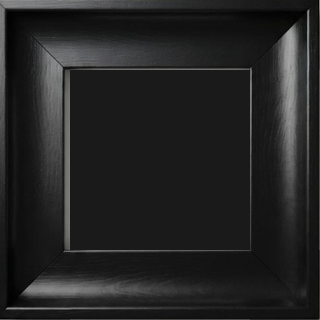
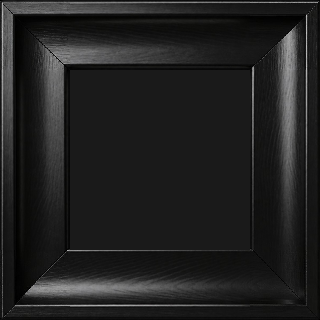
47 L Siyah’ı saten kare görselle değiştir.
Siyah fondaki oluk gölgesi delik açmasın diye gövde opak kopyalanır.

diff --git a/scripts/add-frame.py b/scripts/add-frame.py
@@ -1712,6 +1712,109 @@ def extract_matte_white_on_black(img: Image.Image) -> Image.Image:
     return out
 
 
+def extract_black_satin_square(img: Image.Image) -> Image.Image:
+    """Siyah fon + siyah saten kare: oluk gölgesi delik olmasın, gövde opak kalsın."""
+    src = img.convert("RGBA")
+    w, h = src.size
+    px = src.load()
+    cx, cy = w // 2, h // 2
+
+    def brightness(x: int, y: int) -> float:
+        r, g, b, _a = px[x, y]
+        return (r + g + b) / 3
+
+    def walk_to(x: int, y: int, dx: int, dy: int, thresh: float, run_need: int = 2):
+        run = 0
+        first: tuple[int, int] | None = None
+        while 0 <= x < w and 0 <= y < h:
+            if brightness(x, y) >= thresh:
+                if first is None:
+                    first = (x, y)
+                run += 1
+                if run >= run_need:
+                    return first
+            else:
+                run = 0
+                first = None
+            x += dx
+            y += dy
+        return first
+
+    def expand(x: int, y: int, dx: int, dy: int, thresh: float, limit: int = 12) -> tuple[int, int]:
+        last = (x, y)
+        for _ in range(limit):
+            nx, ny = x + dx, y + dy
+            if not (0 <= nx < w and 0 <= ny < h):
+                break
+            if brightness(nx, ny) >= thresh:
+                last = (nx, ny)
+                x, y = nx, ny
+            else:
+                break
+        return last
+
+    body = 8.0
+    left_o = walk_to(0, cy, 1, 0, body)
+    right_o = walk_to(w - 1, cy, -1, 0, body)
+    top_o = walk_to(cx, 0, 0, 1, body)
+    bot_o = walk_to(cx, h - 1, 0, -1, body)
+    left_i = walk_to(cx, cy, -1, 0, body)
+    right_i = walk_to(cx, cy, 1, 0, body)
+    top_i = walk_to(cx, cy, 0, -1, body)
+    bot_i = walk_to(cx, cy, 0, 1, body)
+    if not all((left_o, right_o, top_o, bot_o, left_i, right_i, top_i, bot_i)):
+        return src
+
+    ol, _ = expand(*left_o, -1, 0, 4.0)
+    oright, _ = expand(*right_o, 1, 0, 4.0)
+    _, ot = expand(*top_o, 0, -1, 4.0)
+    _, ob = expand(*bot_o, 0, 1, 4.0)
+    il, _ = expand(*left_i, 1, 0, 4.0)
+    ir, _ = expand(*right_i, -1, 0, 4.0)
+    _, it = expand(*top_i, 0, 1, 4.0)
+    _, ib = expand(*bot_i, 0, -1, 4.0)
+
+    if il - ol < 40 or it - ot < 40 or ir - il < 40 or ib - it < 40:
+        return src
+
+    cw, ch = oright - ol + 1, ob - ot + 1
+    out = Image.new("RGBA", (cw, ch), (0, 0, 0, 0))
+    opx = out.load()
+    for y in range(ot, ob + 1):
+        for x in range(ol, oright + 1):
+            if il < x < ir and it < y < ib:
+                continue
+            r, g, b, _a = px[x, y]
+            opx[x - ol, y - ot] = (r, g, b, 255)
+
+    bbox = out.getbbox()
+    if bbox:
+        out = out.crop(bbox)
+
+    px = out.load()
+    w, h = out.size
+    cx, cy = w // 2, h // 2
+
+    def trans(x: int, y: int) -> bool:
+        return px[x, y][3] < 30
+
+    top = 0
+    while top < h and trans(cx, top):
+        top += 1
+    bot = h - 1
+    while bot >= 0 and trans(cx, bot):
+        bot -= 1
+    left = 0
+    while left < w and trans(left, cy):
+        left += 1
+    right = w - 1
+    while right >= 0 and trans(right, cy):
+        right -= 1
+    if left < right and top < bot:
+        out = out.crop((left, top, right + 1, bot + 1))
+    return dilate_opaque_into_hole(out, 2)
+
+
 def extract_faithful_black_square(
     img: Image.Image,
     *,
@@ -3498,6 +3601,10 @@ STUDIO_MATTE_WHITE_BLACK: set[str] = {
     "47-l-beyaz.png",
 }
 
+STUDIO_BLACK_SATIN: set[str] = {
+    "47-l-siyah.png",
+}
+
 STUDIO_WHITE_STUDIO: set[str] = set()
 
 STUDIO_KEEP_LONG_OUTER: set[str] = {
@@ -3531,6 +3638,13 @@ def _studio_extract_usable(img: Image.Image) -> bool:
 def process_frame_png(src: Path, dest: Path, force_thickness: int | None = None) -> int:
     """Kaynak fotoğraftaki doğal mitre köşeleri korunur — parça birleştirme yok."""
     raw = Image.open(src).convert("RGBA")
+    if dest.name in STUDIO_BLACK_SATIN:
+        out = extract_black_satin_square(raw)
+        dest.parent.mkdir(parents=True, exist_ok=True)
+        out.save(dest, "PNG")
+        if force_thickness is not None:
+            return force_thickness
+        return measure_output_thickness(out)
     if dest.name in STUDIO_MATTE_WHITE_BLACK:
         out = extract_matte_white_on_black(raw)
         dest.parent.mkdir(parents=True, exist_ok=True)
